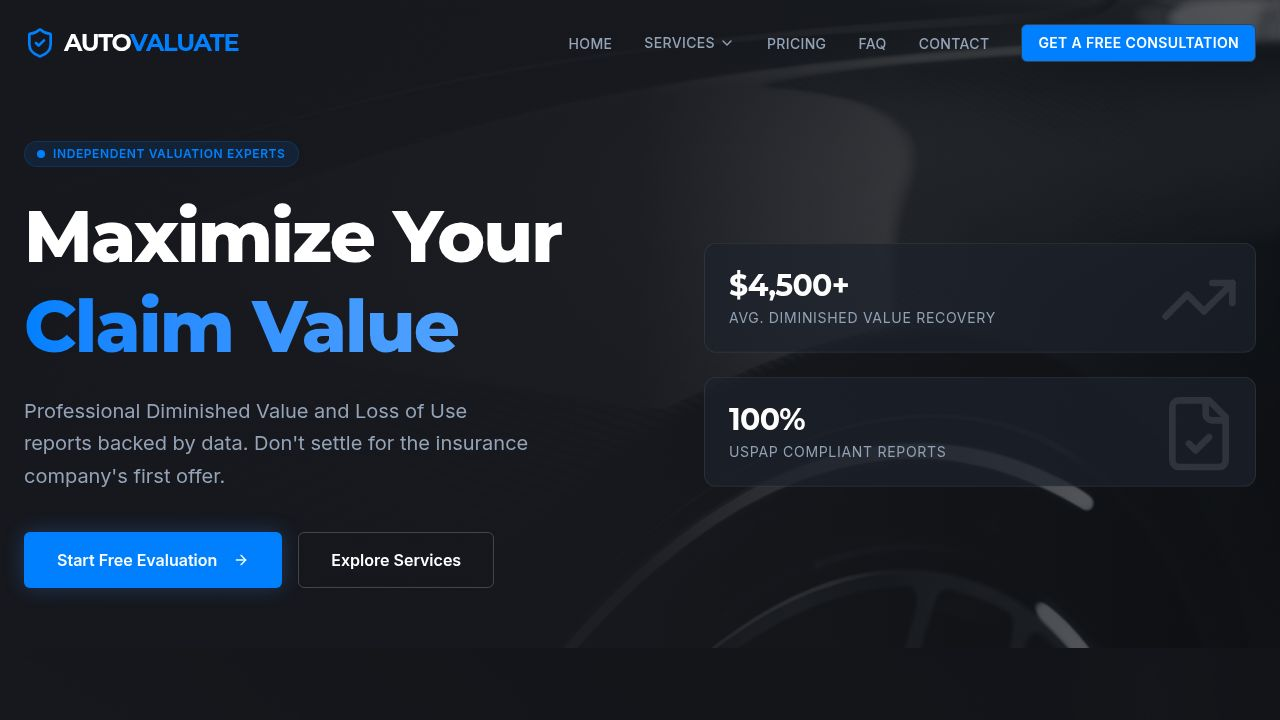
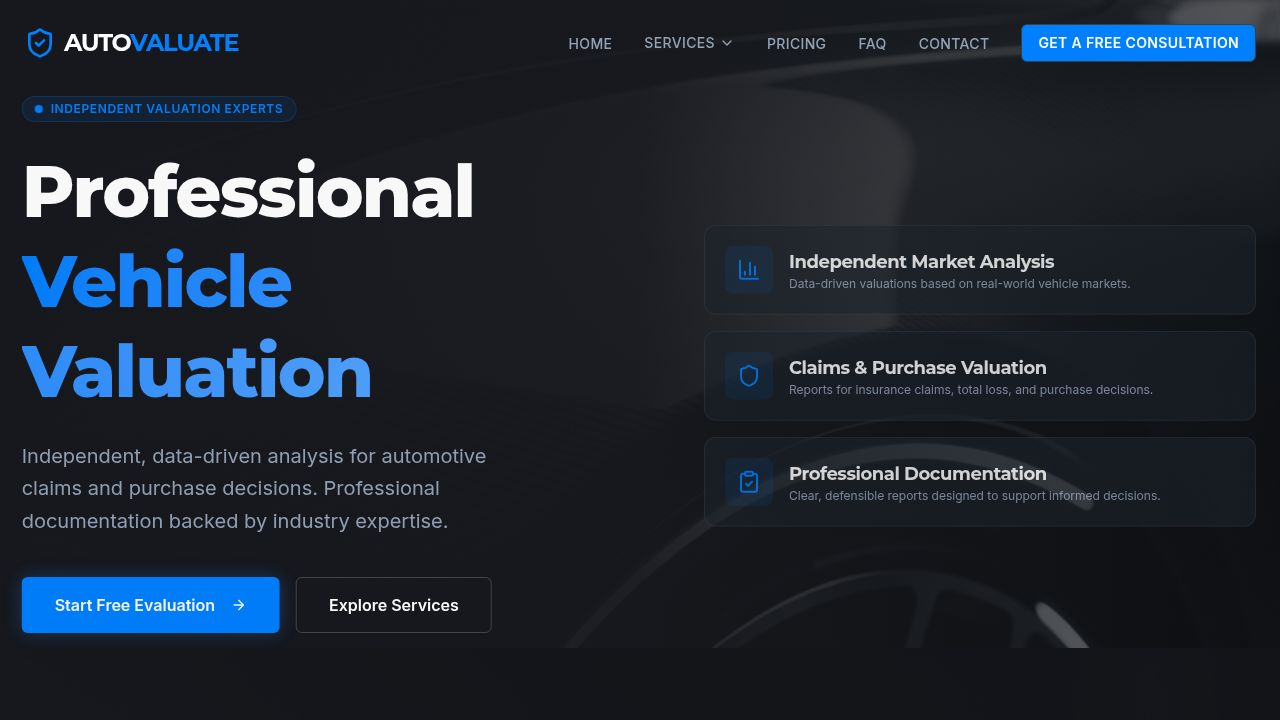
Update hero section to emphasize valuation expertise and credibility
Refactor Hero component to replace outcome-based stats with credibility cards and update messaging to focus on professional vehicle valuation and data-driven analysis.

Replit-Commit-Author: Agent
Replit-Commit-Session-Id: a41c7c4f-b3be-4da7-b386-2bc4f03257c1
Replit-Commit-Checkpoint-Type: full_checkpoint
Replit-Commit-Event-Id: bed8afc2-a5d2-4757-8e40-789acc998ace
Replit-Commit-Screenshot-Url: https://storage.googleapis.com/screenshot-production-us-central1/ea9309ca-e855-4645-a41a-92645ca743a7/a41c7c4f-b3be-4da7-b386-2bc4f03257c1/WPKi1MV
Replit-Helium-Checkpoint-Created: true

diff --git a/client/src/components/sections/Hero.tsx b/client/src/components/sections/Hero.tsx
@@ -1,6 +1,7 @@
 import { Button } from "@/components/ui/button";
-import { ArrowRight, FileCheck, TrendingUp } from "lucide-react";
+import { ArrowRight, BarChart3, Shield, ClipboardCheck } from "lucide-react";
 import { motion } from "framer-motion";
+import { Link } from "wouter";
 import heroBg from "@/assets/hero-bg.png";
 
 export default function Hero() {
@@ -32,52 +33,65 @@ export default function Hero() {
           </div>
 
           <h1 className="text-4xl md:text-6xl lg:text-7xl font-heading font-extrabold leading-tight text-white">
-            Maximize Your <br />
+            Professional <br />
             <span className="text-transparent bg-clip-text bg-gradient-to-r from-primary to-blue-400">
-              Claim Value
+              Vehicle Valuation
             </span>
           </h1>
 
           <p className="text-lg md:text-xl text-muted-foreground max-w-lg leading-relaxed">
-            Professional Diminished Value and Loss of Use reports backed by data. 
-            Don't settle for the insurance company's first offer.
+            Independent, data-driven analysis for automotive claims and purchase decisions. Professional documentation backed by industry expertise.
           </p>
 
           <div className="flex flex-col sm:flex-row gap-4 pt-4">
             <Button size="lg" className="h-14 px-8 text-base font-bold bg-primary hover:bg-primary/90 rounded-none md:rounded-md border border-primary/50 shadow-[0_0_20px_rgba(59,130,246,0.3)] hover:shadow-[0_0_30px_rgba(59,130,246,0.5)] transition-all" asChild>
-              <a href="#contact">
+              <Link href="/contact">
                 Start Free Evaluation <ArrowRight className="ml-2 h-5 w-5" />
-              </a>
+              </Link>
             </Button>
             <Button size="lg" variant="outline" className="h-14 px-8 text-base font-bold border-white/20 text-white hover:bg-white/10 hover:text-white hover:border-white/40 rounded-none md:rounded-md backdrop-blur-sm" asChild>
-              <a href="#services">
+              <Link href="/services/diminished-value">
                 Explore Services
-              </a>
+              </Link>
             </Button>
           </div>
         </motion.div>
 
-        {/* Hero Stats/Cards */}
+        {/* Hero Credibility Cards */}
         <motion.div 
           initial={{ opacity: 0, y: 50 }}
           animate={{ opacity: 1, y: 0 }}
           transition={{ duration: 0.8, delay: 0.2, ease: "easeOut" }}
-          className="hidden md:flex flex-col gap-6 justify-center pl-10"
+          className="hidden md:flex flex-col gap-4 justify-center pl-10"
         >
-          <div className="glass-card p-6 rounded-xl border border-white/10 relative overflow-hidden group hover:border-primary/50 transition-colors">
-            <div className="absolute top-0 right-0 p-4 opacity-10 group-hover:opacity-20 transition-opacity">
-              <TrendingUp size={80} />
+          <div className="glass-card p-5 rounded-xl border border-white/10 flex items-center gap-4 hover:border-primary/50 transition-colors group">
+            <div className="w-12 h-12 rounded-lg bg-primary/10 flex items-center justify-center text-primary group-hover:scale-110 transition-transform">
+              <BarChart3 size={24} />
             </div>
-            <h3 className="text-3xl font-heading font-bold text-white mb-1">$4,500+</h3>
-            <p className="text-sm text-muted-foreground uppercase tracking-wider">Avg. Diminished Value Recovery</p>
+            <div>
+              <h3 className="text-lg font-bold text-white">Independent Market Analysis</h3>
+              <p className="text-xs text-muted-foreground">Data-driven valuations based on real-world vehicle markets.</p>
+            </div>
           </div>
 
-          <div className="glass-card p-6 rounded-xl border border-white/10 relative overflow-hidden group hover:border-primary/50 transition-colors">
-            <div className="absolute top-0 right-0 p-4 opacity-10 group-hover:opacity-20 transition-opacity">
-              <FileCheck size={80} />
+          <div className="glass-card p-5 rounded-xl border border-white/10 flex items-center gap-4 hover:border-primary/50 transition-colors group">
+            <div className="w-12 h-12 rounded-lg bg-primary/10 flex items-center justify-center text-primary group-hover:scale-110 transition-transform">
+              <Shield size={24} />
             </div>
-            <h3 className="text-3xl font-heading font-bold text-white mb-1">100%</h3>
-            <p className="text-sm text-muted-foreground uppercase tracking-wider">USPAP Compliant Reports</p>
+            <div>
+              <h3 className="text-lg font-bold text-white">Claims & Purchase Valuation</h3>
+              <p className="text-xs text-muted-foreground">Reports for insurance claims, total loss, and purchase decisions.</p>
+            </div>
+          </div>
+
+          <div className="glass-card p-5 rounded-xl border border-white/10 flex items-center gap-4 hover:border-primary/50 transition-colors group">
+            <div className="w-12 h-12 rounded-lg bg-primary/10 flex items-center justify-center text-primary group-hover:scale-110 transition-transform">
+              <ClipboardCheck size={24} />
+            </div>
+            <div>
+              <h3 className="text-lg font-bold text-white">Professional Documentation</h3>
+              <p className="text-xs text-muted-foreground">Clear, defensible reports designed to support informed decisions.</p>
+            </div>
           </div>
         </motion.div>
       </div>